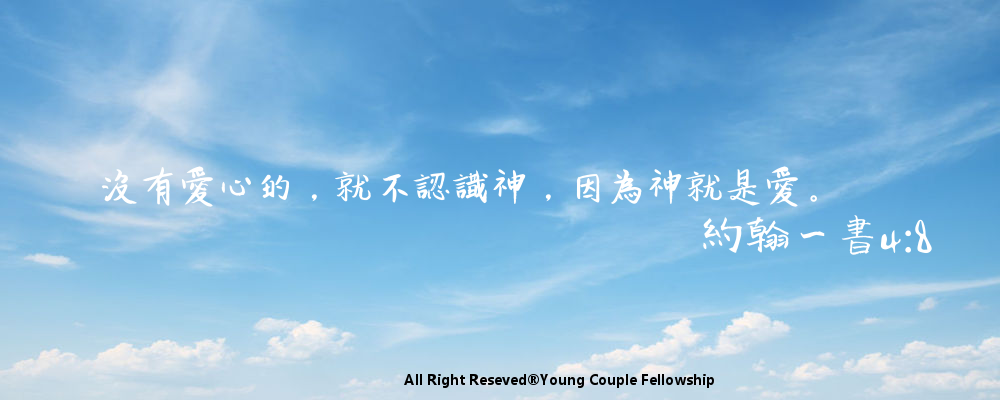
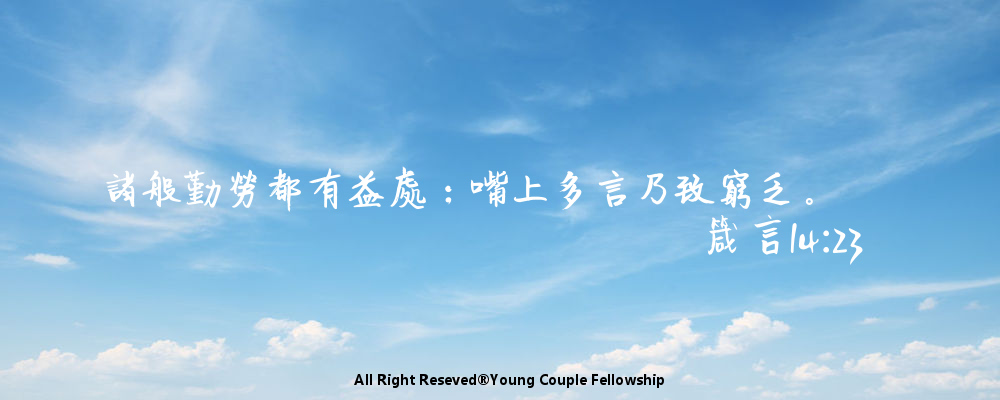
make it better

Changed region(s): [[0.093, 0.42, 0.837, 0.54], [0.682, 0.54, 0.93, 0.66], [0.341, 0.93, 0.713, 0.99]]

diff --git a/create_goldenverse.py b/create_goldenverse.py
@@ -54,7 +54,7 @@ def CreateCard():
  # draw.text((x, y), message, fill=color, font=font)
 # font = ImageFont.truetype('微软雅黑粗体.ttf',36)
 # font = ImageFont.truetype('HanyiSenty.ttf',52)
-  font = ImageFont.truetype('./font/SentyGoldenBell.ttf',36)
+  font = ImageFont.truetype('./font/SentyGoldenBell.ttf',38)
 #  draw.text( (x,y), message,fill=color,font=font)
   draw.multiline_text( (x,y), message,fill=color,font=font, spacing=5, align='center')
 
@@ -71,7 +71,7 @@ def CreateCard():
   draw.multiline_text( (x,y), message,fill=color,font=font, spacing=5, align='right')
 
   # another characters
-  (x, y) = (400, 370)
+  (x, y) = (350, 370)
   name = ' All Right Reseved®Young Couple Fellowship'
   color = 'rgb(255, 255, 255)' # white color
   color = 'rgb(0, 0, 0)' # black color
